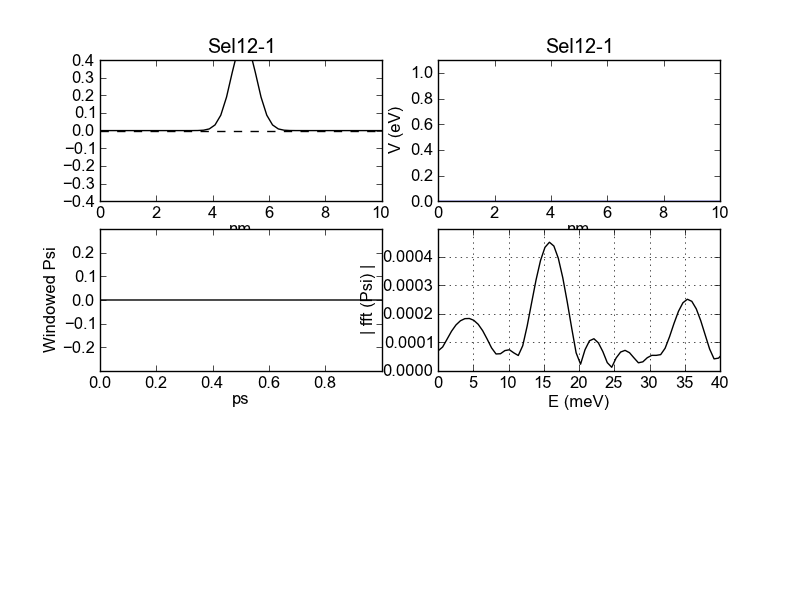
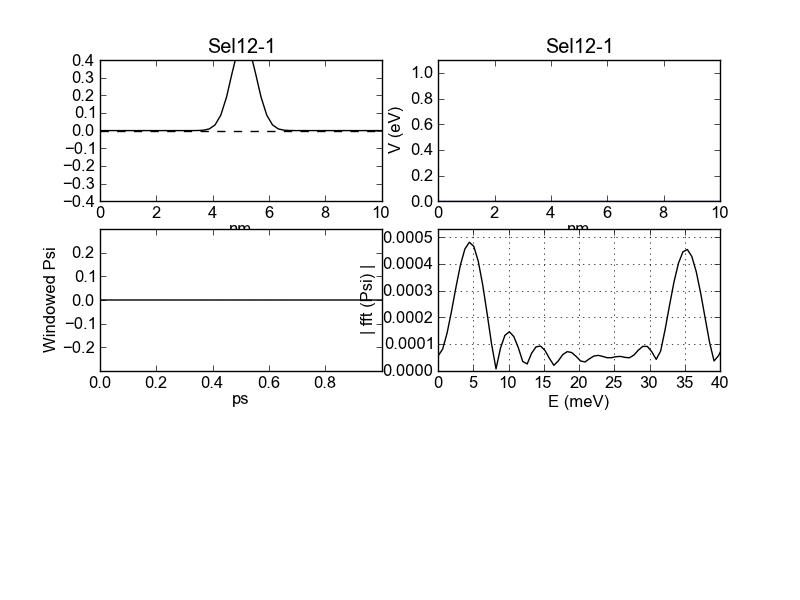
Working implementation of 2D Quantum dots

Changed region(s): [[0.4688, 0.39, 0.9062, 0.6], [0.6562, 0.42, 0.7188, 0.54]]

diff --git a/2D_sec12-2.py b/2D_sec12-2.py
@@ -12,7 +12,7 @@ eV2J  = 1.6e-19      # Energy conversion factors
 J2eV  = 1/eV2J
 
 del_x = 2.e-10       # The cells size
-dt    = .1e-16       # Time steps
+dt    = .1e-15       # Time steps
 ra    = (0.5*hbar/melec)*(dt/del_x**2) # ra must be < .1
 print "Stability criteria ra: %2e" % ra
 DX    = del_x * 1e9
@@ -49,10 +49,10 @@ V = np.zeros((NN,NN))
     # V(n,m) = eV2J *.1
 
 # HO potential
-k0 = 0.005
-for m in range(1,NN):
-    for n in range(1,NN):
-        V[n,m] = k0*((NC-n)**2 + (MC-m)**2)*del_x**2
+# k0 = 0.005
+# for m in range(1,NN):
+#     for n in range(1,NN):
+#         V[n,m] = k0*((NC-n)**2 + (MC-m)**2)*del_x**2
 
 fig = plt.figure()
 # print XX.shape
@@ -189,4 +189,5 @@ ax6.set_xlabel('E (meV)')
 ax6.set_ylabel('FFT (Psi)')
 ax6.set_xlim(0,50)
 ax6.set_ylim(0,1.1*Pmax)
+plt.savefig('Se2d-find-E-Inf-well.png')
 plt.show()
